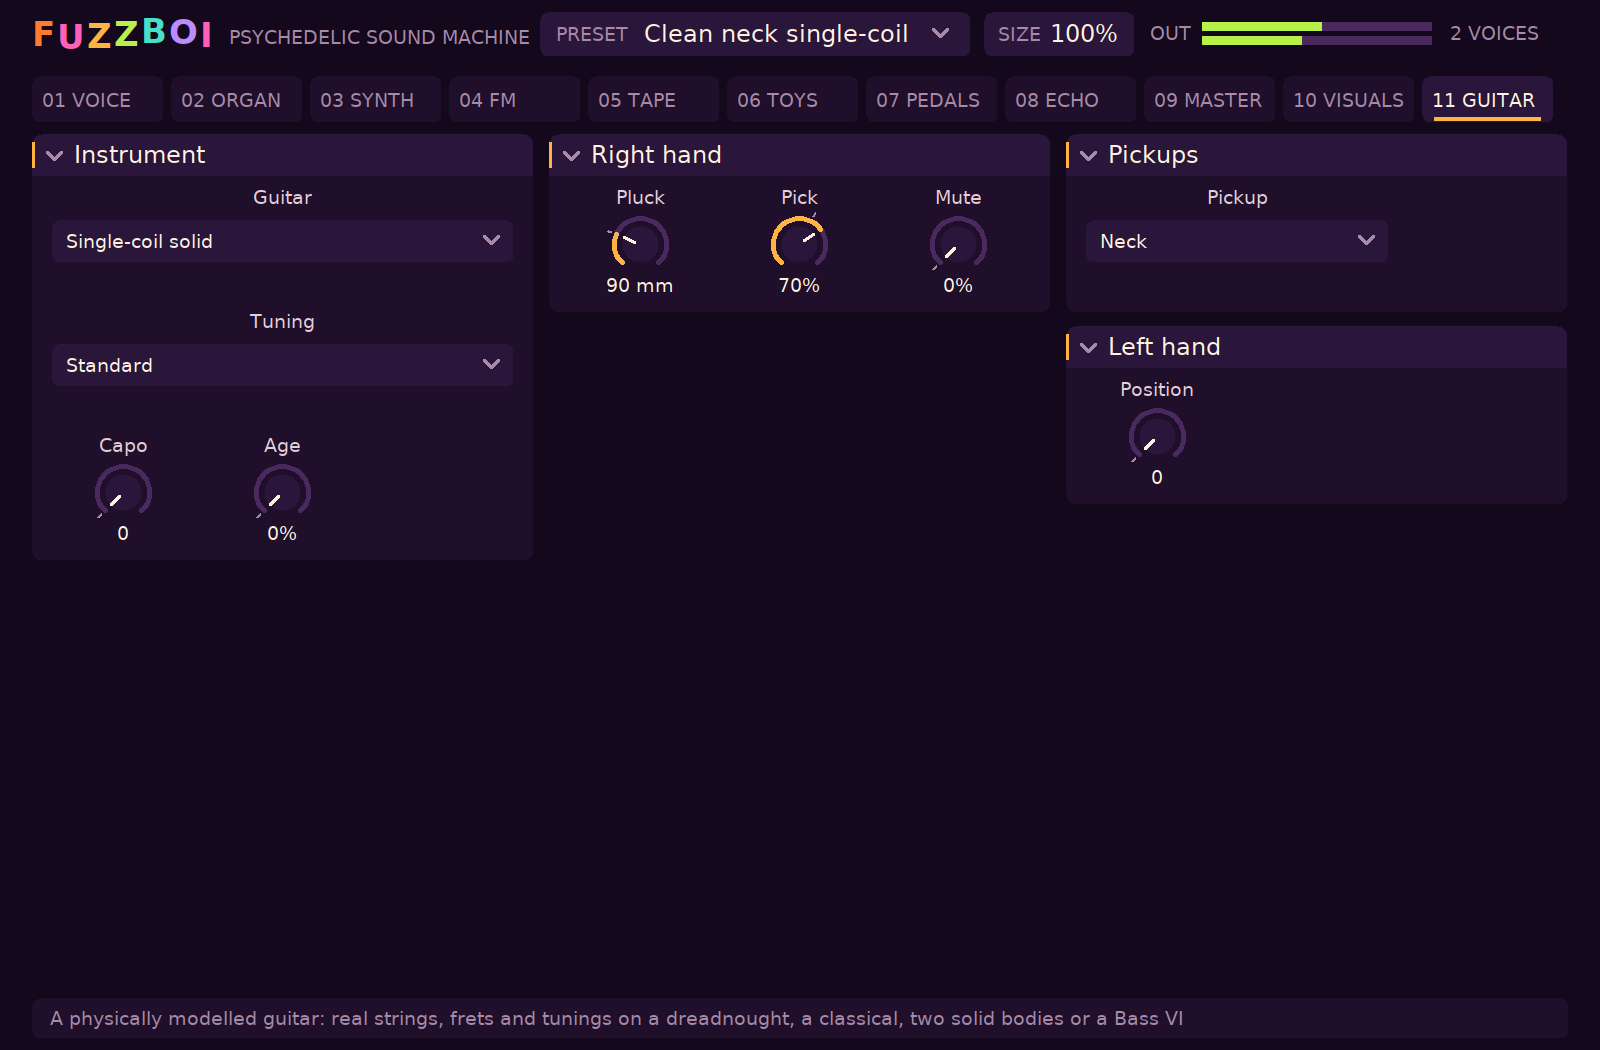
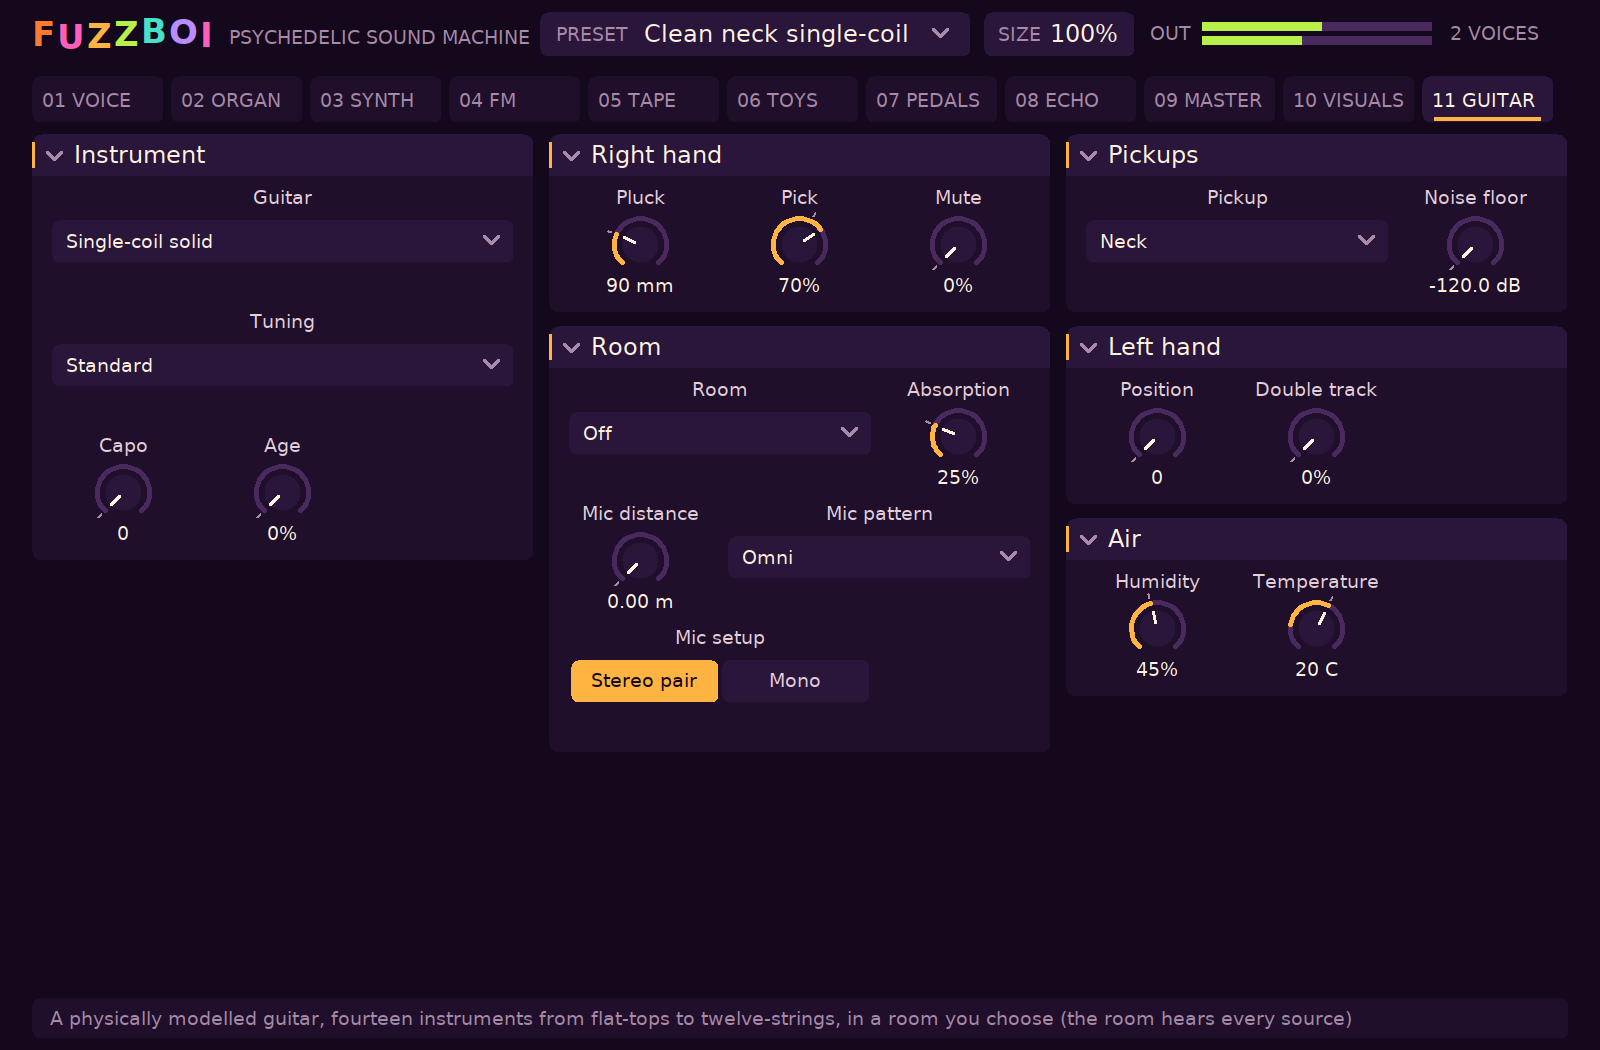
Version 0.3.0: the README and screenshots for the room, the wah and the record-gated presets
- README: 164 presets, the wah at the head of the chain, the room and its air, the fourteen
  physical guitars, and the air_tests and tone_gate_tests suites.
- Refreshed docs/screenshots/page7.png (PEDALS, with the wah) and page11.png (GUITAR, with
  the Room and Air cards).

diff --git a/README.md b/README.md
@@ -37,7 +37,7 @@ major, minor, sus, seventh, ninth, fifths or octave chord, voiced close, drop-2,
 played together or strummed low to high over a set time. Releasing the key releases the chord;
 a strum that has not finished is dropped.
 
-**The effects chain**, in order: amp feedback (a harmonic of the held note howls up over a swell),
+**The effects chain**, in order: a wah (the Cry Baby's band-pass swept heel to toe by hand or by the envelope), amp feedback (a harmonic of the held note howls up over a swell),
 fuzz (Big Muff, Fuzz Face and Tone Bender models, a cranked Plexi head for the brown sound, and an
 Octavia-style octave fuzz), a speaker cabinet (tweed combo, British 4x12,
 top-boost combo), phaser (2 to 8 stages with feedback), the Juno
@@ -49,7 +49,7 @@ ducking of the whole mix, echoes included), backwards, lo-fi, and the master tap
 (drive, wow, flutter, hiss, bandwidth, and up to six cassette-to-cassette generations), and an
 output limiter at -2 dBFS so every preset can sit at the same loudness (-16 LUFS momentary) whatever its crest factor.
 
-**A hundred and twenty-four presets**: from "Bright Vox organ" and "Electric jug" through
+**A hundred and sixty-four presets**: from "Bright Vox organ" and "Electric jug" through
 "Eight-theremin swarm", "Marimba-repeat organ", "Quarter-tone lead", "Polymoog strings", "Warbling
 tape collage" and "Space Echo dub" to the second round's "Pumping Juno pad", "Phased octave lead",
 "Pumping pluck bass", "Strummed maj 7 jangle", "Omnichord dream", "Strummed FM bells" and the sample
@@ -59,10 +59,20 @@ drone", "Swelling tape loop", "Sunbleached Juno pad" and more, and seven for the
 steel", "Nylon fingerstyle", "Clean neck single-coil", "Bridge-pickup twang", "Humbucker crunch", "Palm-muted chug",
 "Bass VI (phys)"), plus a physical-guitar twin of each of the
 27 jangle presets ("Phased 12-str (phys)", "Acoustic 12 (phys)", "Variac Plexi (phys)", ...), the
-12-string ones playing their octave courses on a second real string through the Octaves chord. Every preset is measured against the [quality bar](docs/QUALITY.md) by
+12-string ones playing their octave courses on a second real string through the Octaves chord, and forty
+more written for kinds of record ("4-track crunch (phys)", "Drone 12 (phys)", "Folk-rock chime (phys)",
+"Funk wah chops (phys)", "Casino delay arpeggio (phys)", "Freakbeat bender (phys)", ...), most of them held by
+`tone_gate_tests` to where the separated guitar stems of real records measure. Every preset is measured against the [quality bar](docs/QUALITY.md) by
 `build/fuzzboi-preset-audit` and held to it by the test suite. Sixteen voices, poly/mono/legato,
 unison with stereo spread, sustain pedal, pitch bend, mod wheel vibrato, CLAP and MIDI note
 dialects, sample-accurate events, parameter modulation, and state that carries loaded samples.
+
+**The room and its air**: every source plays into a room and is heard through air (ISO 9613-1
+absorption, the speed of sound, image-source reflections, a Sabine tail) by an omni, cardioid or
+figure-8 microphone, as a stereo pair or one mono mic, with its proximity effect; the room's humidity
+reaches an acoustic guitar's top and its temperature the strings. The physical guitar plays fourteen
+instruments, twelve-strings as real course pairs among them, with a double track and an amplifier
+noise floor.
 
 **A sample bank** of thirteen permissively licensed excerpts harvested from archive.org (toy
 piano, music box, theremin, an Omnichord, a harmonium, a ghanta bell, a singing bowl, tingsha, a
@@ -106,6 +116,8 @@ hardware, installed plug-ins or the network.
 | `sources_tests` | each sound source's pitch and character (bar partials, jug flutter rate, tape run-out, ...) |
 | `fx_tests` | each effect's advertised behaviour (echo tap times, tremolo rate, fuzz harmonics, ...) |
 | `engine_tests` | polyphony, mono/legato, unison, FM channel sharing, pedal, bend, tails, the chord machine and strum, every preset against the quality bar |
+| `air_tests` | the room and its air against the physics: speed of sound, ISO 9613-1 absorption, Sabine reverberation time, direct-to-reverberant ratio, wood moisture, string expansion |
+| `tone_gate_tests` | the physical presets written for kinds of record, measured as the reference corpus measured real records' guitar stems, and held inside each group's range |
 | `guitar_tests` | the physical guitar: the maker's string data, every open string in every tuning by ear, intonation and saddle setbacks, measured stiffness stretch, partial decays, the pluck point's notch, tension glide, fingering and choke, damping and sympathetic strings, pickups and body, hammer-ons, stability |
 | `plugin_smoke`, `note_tests`, `state_tests` | the built `.clap` through the public CLAP ABI: discovery, ports, parameters, events at sample offsets, MIDI, presets, state round trips, malformed state |
 | `advertised_tests` | one proof per parameter from audio; fails if a parameter has no proof |

diff --git a/docs/GUITAR.md b/docs/GUITAR.md
@@ -121,7 +121,7 @@ pluck point in mm from the saddle, finger to plectrum, palm mute, string age, ha
 
 The instrument and the player sit on the editor's GUITAR page:
 
-![The GUITAR page: instrument, right hand, pickups and left hand](screenshots/page11.png)
+![The GUITAR page: instrument, right hand, pickups, left hand, the room and its air](screenshots/page11.png)
 
 ## What is simulated
 
